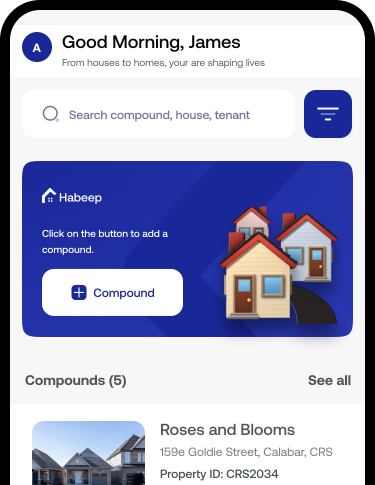
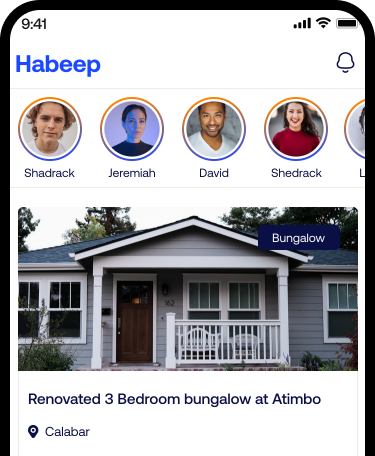
made size adjustment on the video clip and text content

diff --git a/src/views/about/About.vue b/src/views/about/About.vue
@@ -208,7 +208,7 @@ function getCurrentYear() {
         </div>
       </div>
       <div class="landlords-download">
-        <p>Download the User App</p>
+        <p>Download the Landlord App</p>
         <div class="landlords-download-btn">
           <a href="https://apps.apple.com/us/app/habeep/id6450388013" target="_blank" class="landlords-links">
             <img src="../../assets/icons/download-app-apple.svg" alt="" />
@@ -278,7 +278,7 @@ function getCurrentYear() {
       <div class="footer-user-app">
         <div class="footer-user-app-div">
           <div>
-            <p>Download the Landlord App</p>
+            <p>Download the User App</p>
             <p>
               Lorem ipsum dolor sit amet consectetur. Dolor sit amet
               consectetur.
@@ -299,7 +299,6 @@ function getCurrentYear() {
       </div>
       <div class="footer-habeep">
         <div @click="$router.push('/home')" class="footer-habeep-home">
-          <!-- <img src="../../assets/images/footerHabeep.svg" alt="" /> -->
         </div>
         <div class="footer-habeep-divs1">
           <div>
@@ -383,12 +382,10 @@ function getCurrentYear() {
 
   .hero-video {
     width: 100%;
-    max-width: 1245px;
-    height: 473px;
+    max-width: 902px;
+    height: 507px;
     border-radius: 30px;
     background: rgba(217, 217, 217, 1);
-    overflow: hidden;
-    /* object-fit: inherit */
   }
 
   .discover-section {
@@ -2056,6 +2053,8 @@ function getCurrentYear() {
     position: relative;
     bottom: -4.7rem;
     object-fit: contain;
+
+    
   }
 
   .footer-habeep {
@@ -2976,7 +2975,7 @@ function getCurrentYear() {
     /* border-radius: 40px; */
     border: 10px;
     position: relative;
-    bottom: -3rem;
+    bottom: -3.1rem;
     object-fit: contain;
   }
 
@@ -3084,9 +3083,11 @@ function getCurrentYear() {
   .hero-video {
     width: 100%;
     max-width: 331px;
-    max-height: 419px;
+    max-height: 300px;
     border-radius: 30px;
     background: rgba(217, 217, 217, 1);
+    overflow: hidden;
+    background: red;
   }
 
   .discover-section {
@@ -3856,7 +3857,7 @@ function getCurrentYear() {
   .footer-user-app img:nth-child(2) {
     width: 250px;
     height: 400px;
-    bottom: -2.6rem;
+    bottom: -3.2rem;
   }
 
   .footer-habeep {
@@ -3878,6 +3879,7 @@ function getCurrentYear() {
   }
 
   .footer-habeep-home {
+    width: 180px !important;
     margin-bottom: 4rem;
   }
 
